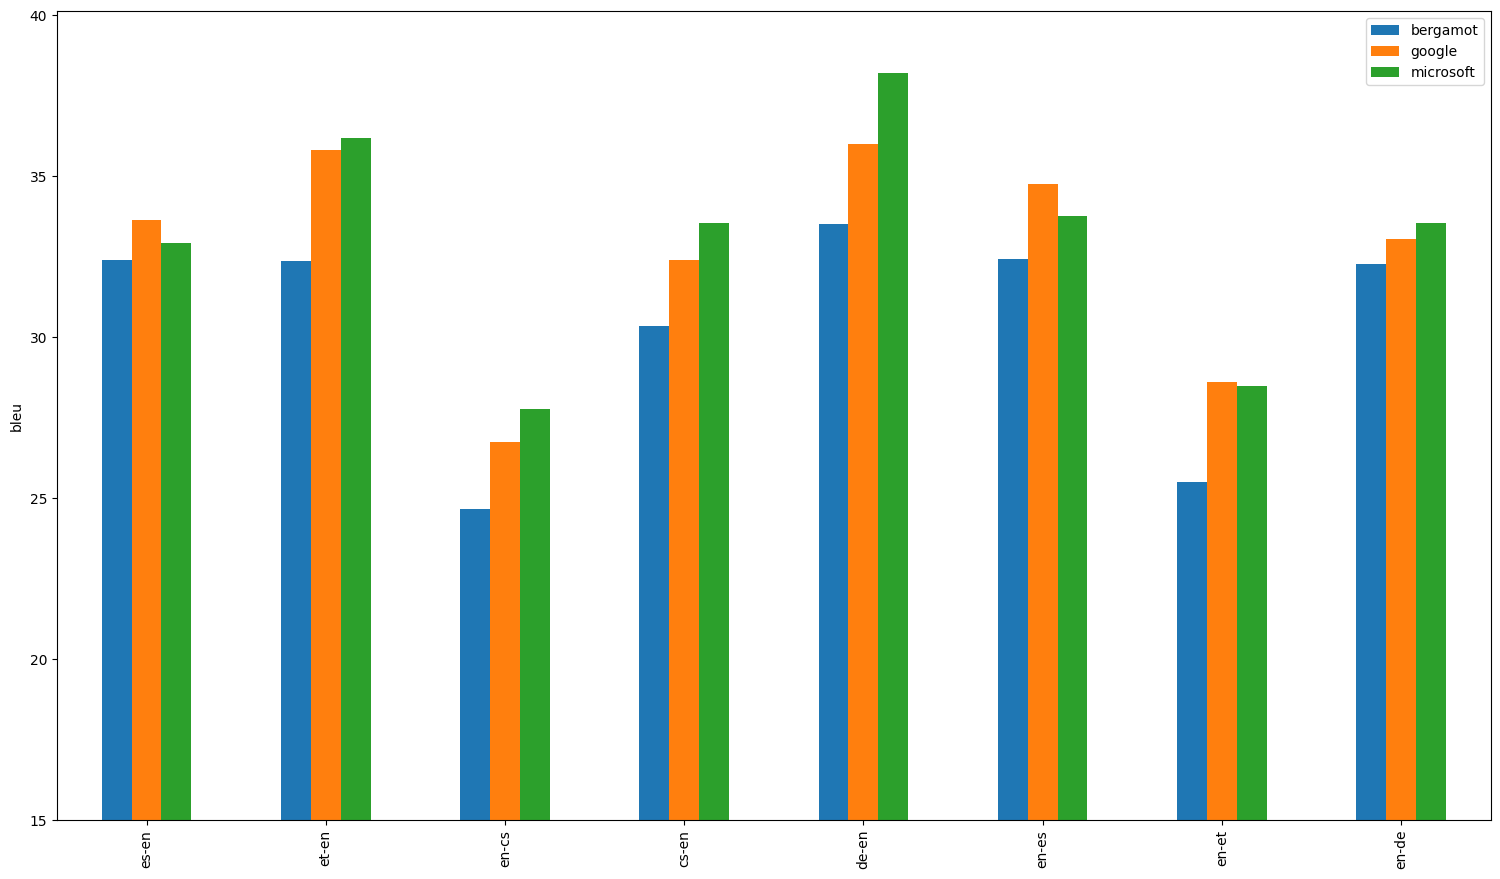
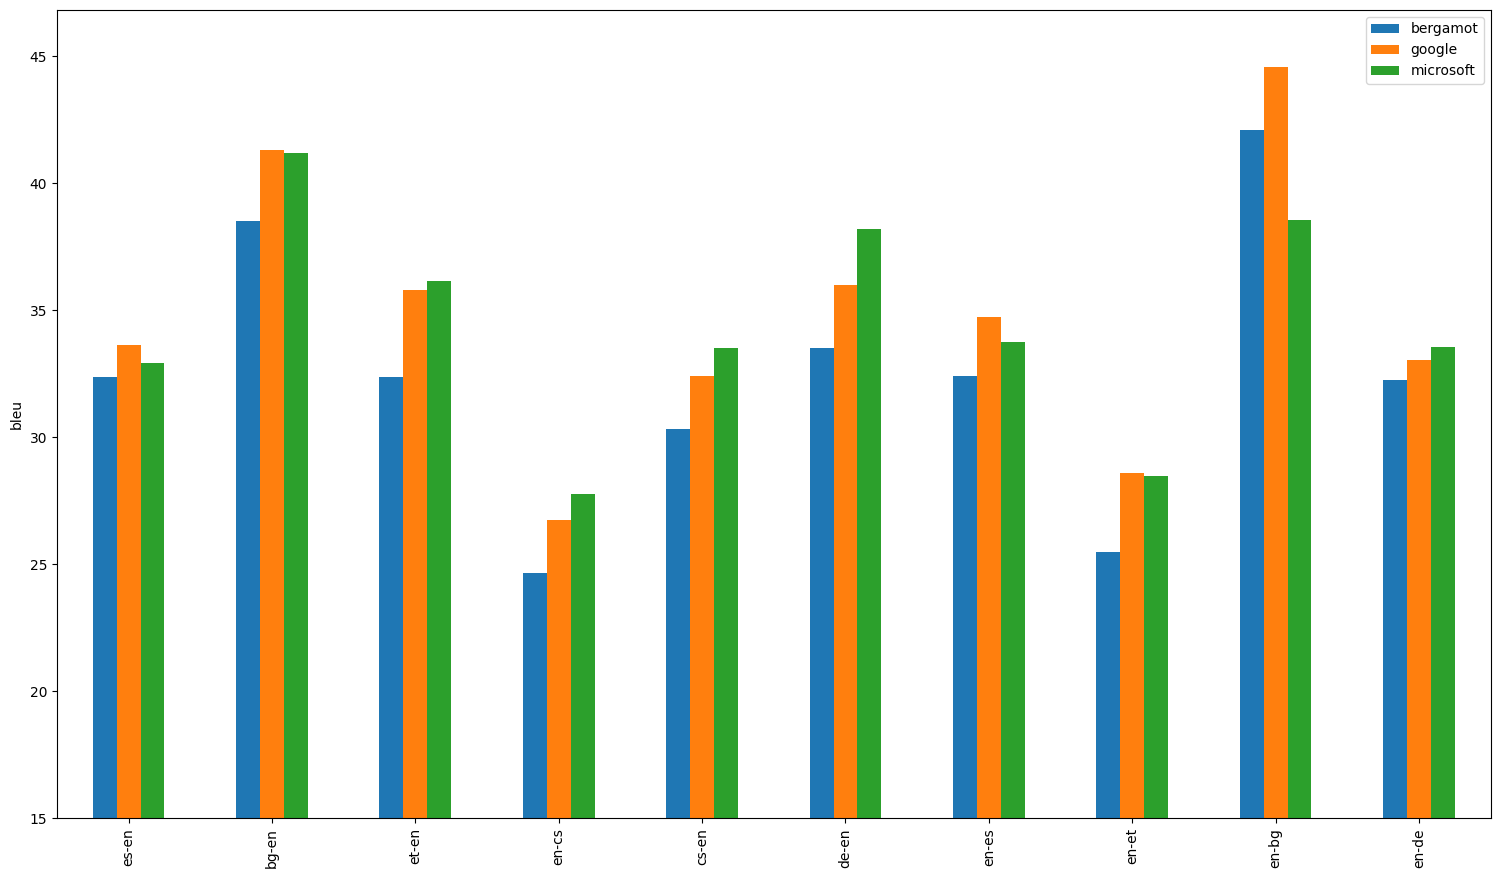
Update evaluation results [skip ci]

diff --git a/evaluation/prod/results.md b/evaluation/prod/results.md
@@ -57,11 +57,11 @@ Both absolute and relative differences in BLEU scores between Bergamot and other
 
 ## avg
 
-| Translator/Dataset | es-en | et-en | en-cs | cs-en | de-en | en-es | en-et | en-de |
-| --- | --- | --- | --- | --- | --- | --- | --- | --- |
-| bergamot | 32.38 | 32.37 | 24.65 | 30.34 | 33.51 | 32.41 | 25.50 | 32.27 |
-| google | 33.64 (+1.27, +3.91%) | 35.80 (+3.43, +10.61%) | 26.73 (+2.09, +8.47%) | 32.40 (+2.06, +6.80%) | 35.98 (+2.48, +7.39%) | 34.74 (+2.32, +7.17%) | 28.60 (+3.10, +12.16%) | 33.05 (+0.77, +2.40%) |
-| microsoft | 32.93 (+0.56, +1.72%) | 36.17 (+3.80, +11.74%) | 27.75 (+3.11, +12.60%) | 33.53 (+3.19, +10.53%) | 38.21 (+4.70, +14.03%) | 33.76 (+1.35, +4.17%) | 28.47 (+2.97, +11.63%) | 33.54 (+1.27, +3.93%) |
+| Translator/Dataset | es-en | bg-en | et-en | en-cs | cs-en | de-en | en-es | en-et | en-bg | en-de |
+| --- | --- | --- | --- | --- | --- | --- | --- | --- | --- | --- |
+| bergamot | 32.38 | 38.50 | 32.37 | 24.65 | 30.34 | 33.51 | 32.41 | 25.50 | 42.10 | 32.27 |
+| google | 33.64 (+1.27, +3.91%) | 41.30 (+2.80, +7.27%) | 35.80 (+3.43, +10.61%) | 26.73 (+2.09, +8.47%) | 32.40 (+2.06, +6.80%) | 35.98 (+2.48, +7.39%) | 34.74 (+2.32, +7.17%) | 28.60 (+3.10, +12.16%) | 44.60 (+2.50, +5.94%) | 33.05 (+0.77, +2.40%) |
+| microsoft | 32.93 (+0.56, +1.72%) | 41.20 (+2.70, +7.01%) | 36.17 (+3.80, +11.74%) | 27.75 (+3.11, +12.60%) | 33.53 (+3.19, +10.53%) | 38.21 (+4.70, +14.03%) | 33.76 (+1.35, +4.17%) | 28.47 (+2.97, +11.63%) | 38.55 (-3.55, -8.43%) | 33.54 (+1.27, +3.93%) |
 
 ![Results](img/avg.png)
 
@@ -74,6 +74,16 @@ Both absolute and relative differences in BLEU scores between Bergamot and other
 | microsoft | 35.40 (-0.40, -1.12%) | 29.60 (+0.20, +0.68%) | 33.70 (-0.60, -1.75%) | 37.60 (+0.80, +2.17%) | 35.30 (+0.10, +0.28%) | 26.80 (-0.50, -1.83%) | 30.30 (+2.80, +10.18%) | 29.90 (+3.10, +11.57%) | 37.80 (-0.50, -1.31%) |
 
 ![Results](img/es-en.png)
+
+## bg-en
+
+| Translator/Dataset | flores-dev | flores-test |
+| --- | --- | --- |
+| bergamot | 39.10 | 37.90 |
+| google | 41.90 (+2.80, +7.16%) | 40.70 (+2.80, +7.39%) |
+| microsoft | 42.10 (+3.00, +7.67%) | 40.30 (+2.40, +6.33%) |
+
+![Results](img/bg-en.png)
 
 ## et-en
 
@@ -134,6 +144,16 @@ Both absolute and relative differences in BLEU scores between Bergamot and other
 | microsoft | 27.60 (+2.40, +9.52%) | 29.20 (+3.50, +13.62%) | 28.60 (+3.00, +11.72%) |
 
 ![Results](img/en-et.png)
+
+## en-bg
+
+| Translator/Dataset | flores-test | flores-dev |
+| --- | --- | --- |
+| bergamot | 42.20 | 42.00 |
+| google | 45.10 (+2.90, +6.87%) | 44.10 (+2.10, +5.00%) |
+| microsoft | 39.10 (-3.10, -7.35%) | 38.00 (-4.00, -9.52%) |
+
+![Results](img/en-bg.png)
 
 ## en-de
 
